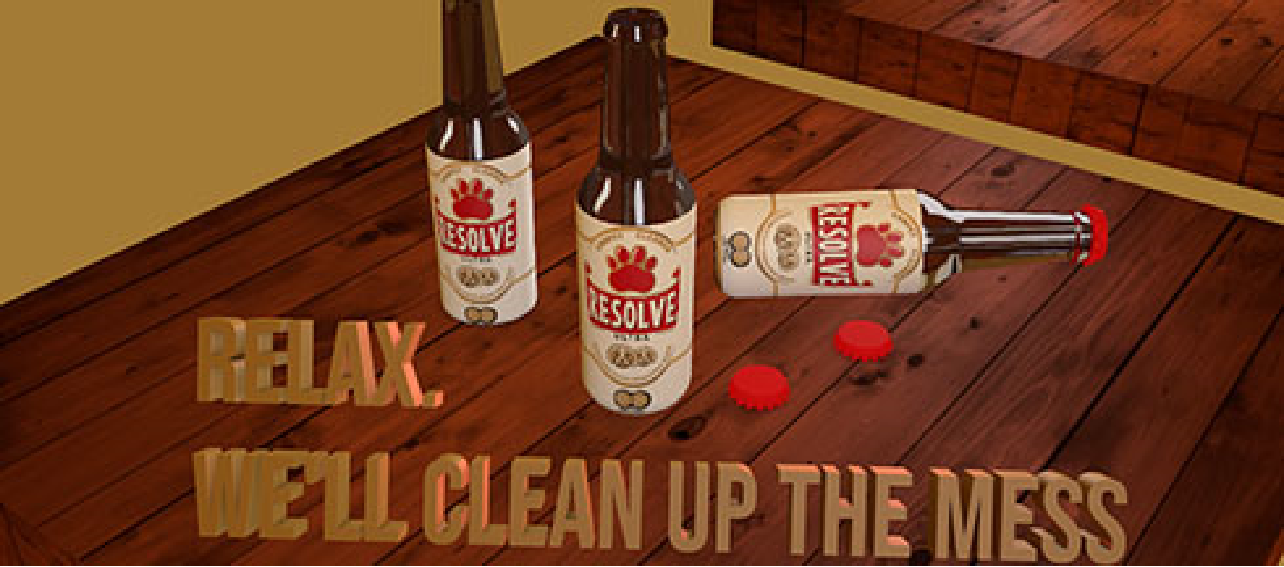
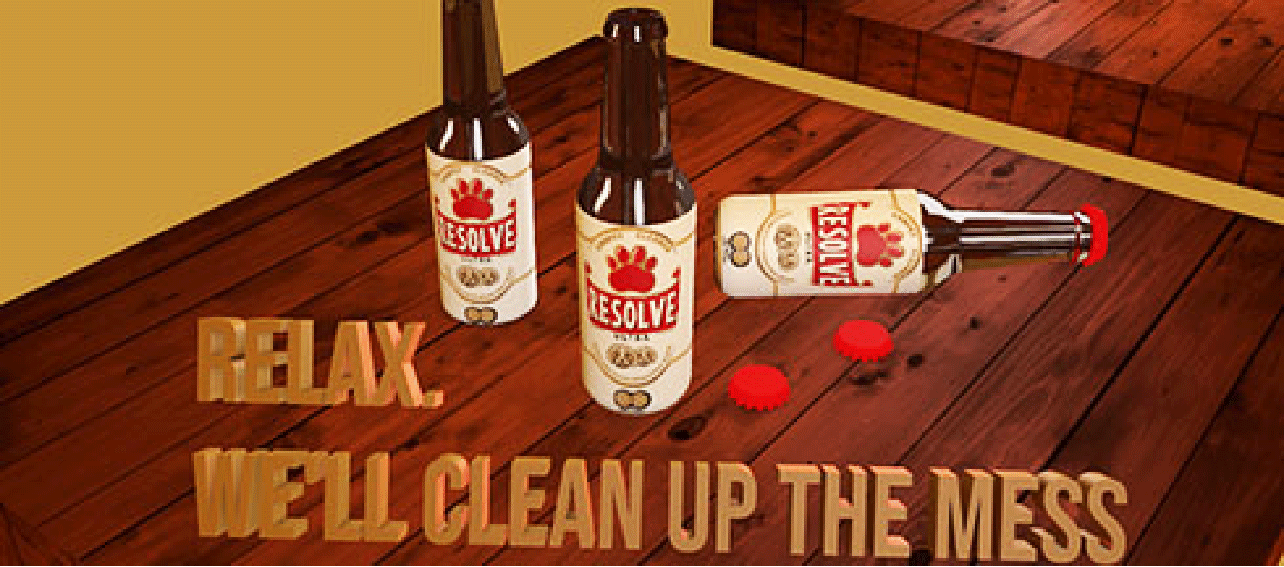
finished Pages

diff --git a/css/main.css b/css/main.css
@@ -6,6 +6,9 @@ body {
   font-size: 14px;
   color: #333;
   background-color: #fff;
+  display: flex;
+  align-items: center;
+  justify-content: center;
 }
 a{
   text-decoration: none;
@@ -45,9 +48,11 @@ a:hover, a:active {
 .hidden {
   display: none;
 }
+@media screen and (min-width: 640px){
 #siteContainer {
   background: #ffffff;
   margin: 0 auto;
+  width: 100%;
   max-width: 1280px;
   height: auto;
 }
@@ -141,6 +146,97 @@ h2 {
   margin-bottom: .5em;
 }
 /*Start of homepage styling*/
+#Hero {
+  width: 100%;
+  max-width:1280px;
+  position: relative;
+}
+#Hero img {
+  width: 100%;
+}
+.hotspot {
+  width: 10px;
+  height: 10px;
+  background: rgb(224,180,107);
+  background: radial-gradient(circle, rgba(224,180,107,1) 25%, rgba(143,109,72,1) 87%);
+  border-radius: 50%;
+  position: absolute;
+  animation: wave 1s infinite;
+  cursor: pointer;
+}
+.right {
+  width: 10px;
+  height: 10px;
+  background: rgb(224,180,107);
+  background: radial-gradient(circle, rgba(224,180,107,1) 25%, rgba(143,109,72,1) 87%);
+  border-radius: 50%;
+  position: absolute;
+  animation: wave 1s infinite;
+  cursor: pointer;
+}
+.one {
+  display: flex;
+  left: 20%;
+  bottom:59%;
+}
+.two {
+  display: flex;
+  right: 45.5%;
+  bottom:60%;
+}
+.three {
+  display: flex;
+  right: 14%;
+  bottom:62%;
+}
+@keyframes wave {
+  from{
+    box-shadow: 0 0 0 0 #d2b897;
+  }
+  to{
+    box-shadow: 0 0 0 5px #d2b897;
+  }
+}
+
+.hotspot::before{
+  content: attr(text);
+  width: max-content;
+  position: absolute;
+  background-color: #45342b;
+  color: #fff;
+  left: 50%;
+  transition: translateX(-50%);
+  top:30%;
+  padding: 8px 20px;
+  font-size: 28px;
+  border-radius: 3px;
+  display: none;
+}
+.right::before{
+  content: attr(text);
+  width: max-content;
+  position: absolute;
+  background-color: #45342b;
+  color: #fff;
+  right: 50%;
+  transition: translateX(-50%);
+  top:30%;
+  padding: 8px 20px;
+  font-size: 28px;
+  border-radius: 3px;
+  display: none;
+}
+
+
+.hotspot:hover::before,
+.hotspot:hover::after {
+  display: block;
+}
+.right:hover::before,
+.right:hover::after {
+  display: block;
+}
+
 .PromoSection {
   display: flex;
   flex-direction: row;
@@ -150,10 +246,14 @@ h2 {
 }
 .Title h2 {
   text-align: center;
+  font-size: 80px;
+  margin-top: .5em;
+  margin-bottom: .5em;
 }
 .Title p {
   text-align: center;
   font-size: 20px;
+
 }
 
 .btnPaw {
@@ -198,8 +298,31 @@ h2 {
   font-size: 70px;
   transition:
 }
+.Promo-main {
+  width: 100%;
+  max-width:1280px;
+  position: relative;
+}
+.Promo-main img {
+  width: 100%;
+}
 /*End of homepage styling*/
 /*Start of About page styling*/
+.About-para p{
+  font-size: 28px;
+  text-align: center;
+  margin: 10%;
+}
+.About-Hero {
+  width: 100%;
+  max-width:1280px;
+  position: relative;
+
+}
+.About-Hero img {
+  width: 100%;
+}
+
 
 
 /*End of About page styling*/
@@ -378,6 +501,8 @@ h2 {
   font-size: 40px;
   color: #45342b;
   text-align: center;
+}
+
 }
 /*Start of Submit page styling*/
 

diff --git a/2Home.html b/2Home.html
@@ -30,7 +30,10 @@
       </nav>
     </header>
     <section id="Hero">
-      <img src="images/Hero-image.jpg" alt="bottles lined up laying flat">
+      <img src="images/Hero-image.png" alt="bottles lined up laying flat">
+      <div class="hotspot one" text="Removes Stains"></div>
+      <div class="hotspot two" text="Unique Flavours"></div>
+      <div class="right three" text="Man's best Friend"></div>
     </section>
     <section class="PromoSection">
     <h2 class="hidden">Promo section</h2>
@@ -39,7 +42,7 @@
       <p>Grab a beer<br>
       &<br>Watch the stains disappear!</p>
     </div>
-    <div><img class="bottleIMG"src="images/trans-bg-bottle.png" alt="transparent bottle"></div>
+    <div class="bottle"><img class="bottleIMG"src="images/trans-bg-bottle.png" alt="transparent bottle"></div>
 
     <div class="btnPaw">
       <img src="images/PAW.png" alt="pawprint">
@@ -48,7 +51,7 @@
     </section>
     <section class="DrinkRspnsbyBanner"> <p id="slide">Please Drink RESPONSIBILITY</p>
     </section>
-    <img src="images/Promo-Pic.png" alt="Picture of the 3d bottles with the relx text">
+    <section class="Promo-main"><img src="images/Promo-Pic.png" alt="Picture of the 3d bottles with the relx text"></section>
     <footer id="foot">
       <div class="socials">
         <img src="images/facebook.png" alt="Facebook Icon and link" height="100px" width="100px">

diff --git a/3About.html b/3About.html
@@ -29,7 +29,8 @@
         </ul>
       </nav>
     </header>
-    <div id="About-para">
+    <section id="siteContainer">
+      <div class="About-para">
       <p>
         Resolve beer was created by accident! One day, our cat peed on the carpet. Instead of getting mad, I got drunk!
         That's when we discovered that we could make a beer that cleans up pet carpet messes too!
@@ -37,10 +38,17 @@
         With Resolve beer, you never have to be sober and clean up pee again!
       </p>
     </div>
-    <img src="images/X3oxi.jpg" alt="Promo picture- 3X OXI CLEAN">
 
-
+    <div class="About-Hero"><img src="images/X3oxi.jpg" alt="Promo picture- 3X OXI CLEAN"></div>
+    <div class="About-para">
+    <p>
+      Resolve beer was created by accident! One day, our cat peed on the carpet. Instead of getting mad, I got drunk!
+      That's when we discovered that we could make a beer that cleans up pet carpet messes too!
+      We get it! Carpet messes are annoying!
+      With Resolve beer, you never have to be sober and clean up pee again!
+    </p>
   </div>
+  </section>
   <footer id="foot">
     <div class="socials">
       <img src="images/facebook.png" alt="Facebook Icon and link" height="100px" width="100px">

diff --git a/1Landing.html b/1Landing.html
@@ -40,8 +40,9 @@
         <a href="2Home.html"><button type="button" name="yes">NO</button></a>
       </div>
     </section>
+  <section class="DrinkRspnsbyBanner"> <p id="slide">Please Drink RESPONSIBILITY</p>
 
-  </div>
+  </section>
   <footer id="foot">
     <div class="socials">
       <img src="images/facebook.png" alt="Facebook Icon and link" height="100px" width="100px">
